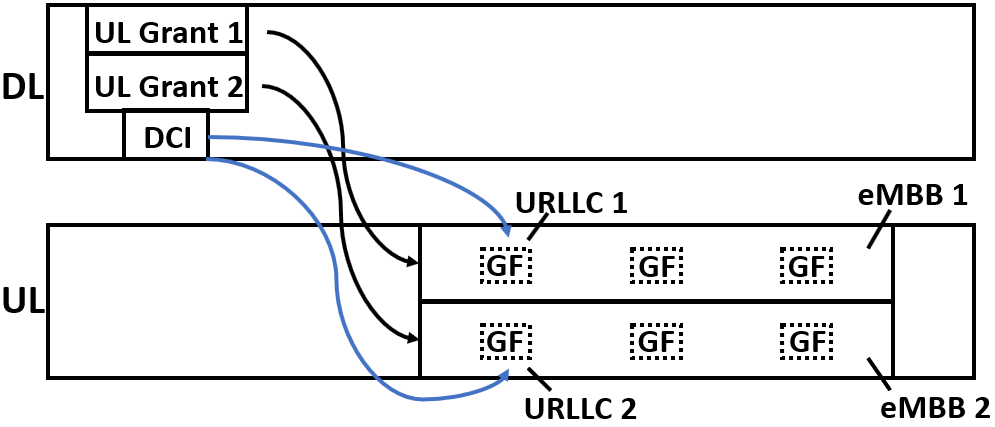
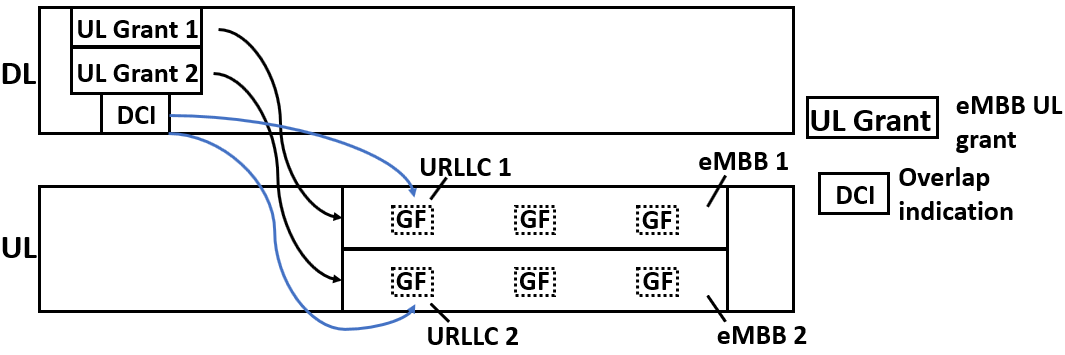
Add files via upload

Changed region(s): [[0.0, 0.0, 0.997, 0.9915], [0.7477, 0.2479, 0.8724, 0.2789]]

diff --git a/eMBB URLLC multiplexing_feedback/Kien.tex b/eMBB URLLC multiplexing_feedback/Kien.tex
@@ -126,7 +126,7 @@ To overcome the problem of the UL GB eMBB and GF URLLC transmissions as shown in
 In the first step, upon scheduling a GB transmission of the eMBB UE over the GF resources, the gNB sends an indication of resource overlap to the URLLC UEs. As the gNB does not know which of the URLLC UEs configured for GF resources may become active in the current interval, this indication needs to be sent to all UEs who have been configured with the GF resources in the overlapping interval as illustrated in Fig.~\ref{fig2}. Upon receiving this overlap indication, the URLLC UEs are aware of the resources which have been dynamically scheduled for other UEs (the eMBB UEs for example) and in case of transmission, they know that their transmissions will be received with increased interference and trigger a mechanism in the next step to deal with this interference.
 
 \begin{figure}[htbp]
-\centerline{\includegraphics[scale=0.2]{fig2.PNG}}
+\centerline{\includegraphics[scale=0.22]{fig2.PNG}}
 \caption{Signalling the URLLC UEs about an overlap with the eMBB UEs in GF regions.}
 \label{fig2}
 \vspace{-2mm}
